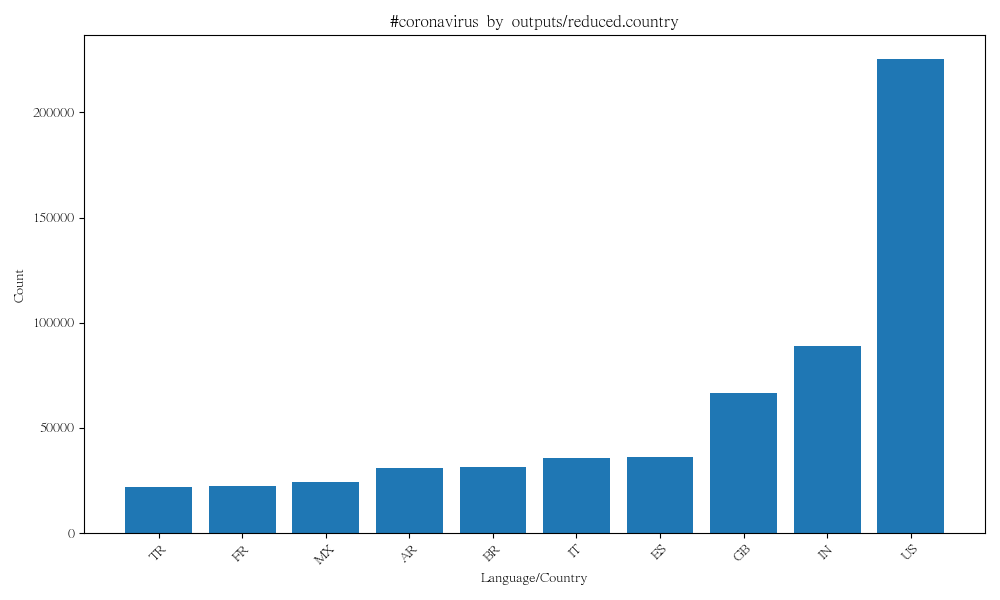
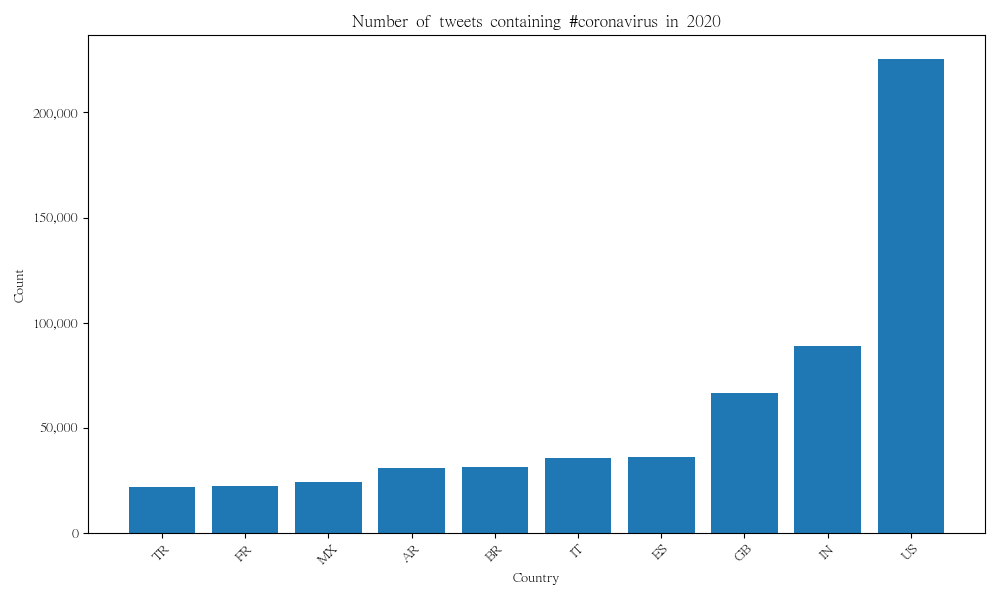
finalized plots

diff --git a/src/visualize.py b/src/visualize.py
@@ -27,6 +27,7 @@ import matplotlib
 matplotlib.use('Agg')
 import matplotlib.pyplot as plt
 import matplotlib.font_manager as fm
+import matplotlib.ticker as ticker
 
 # Korean
 fm.fontManager.addfont('/usr/share/fonts/truetype/baekmuk/batang.ttf')
@@ -49,9 +50,13 @@ plt.figure(figsize=(10,6))
 plt.bar(keys, values)
 
 # label the axes and title
-plt.xlabel('Language/Country')
+if args.input_path.endswith('.lang'):
+    plt.xlabel('Language')
+else:
+    plt.xlabel('Country')
 plt.ylabel('Count')
-plt.title(f'{args.key} by {args.input_path}')
+plt.gca().yaxis.set_major_formatter(ticker.FuncFormatter(lambda x, p: format(int(x), ',')))
+plt.title(f'Number of tweets containing {args.key} in 2020')
 
 # rotate x-axis labels so they don't overlap
 plt.xticks(rotation=45)

diff --git a/src/alternative_reduce.py b/src/alternative_reduce.py
@@ -15,6 +15,7 @@ import matplotlib
 matplotlib.use('Agg')
 import matplotlib.pyplot as plt
 import matplotlib.font_manager as fm
+import matplotlib.ticker as ticker
 
 # Korean
 fm.fontManager.addfont('/usr/share/fonts/truetype/baekmuk/batang.ttf')
@@ -63,6 +64,7 @@ for hashtag in args.hashtags:
 # format the plot
 plt.xlabel('Day of Year')
 plt.ylabel('Number of Tweets')
+plt.gca().yaxis.set_major_formatter(ticker.FuncFormatter(lambda x, p: format(int(x), ',')))
 plt.title('Hashtag Usage Over Time in 2020')
 plt.legend()
 
